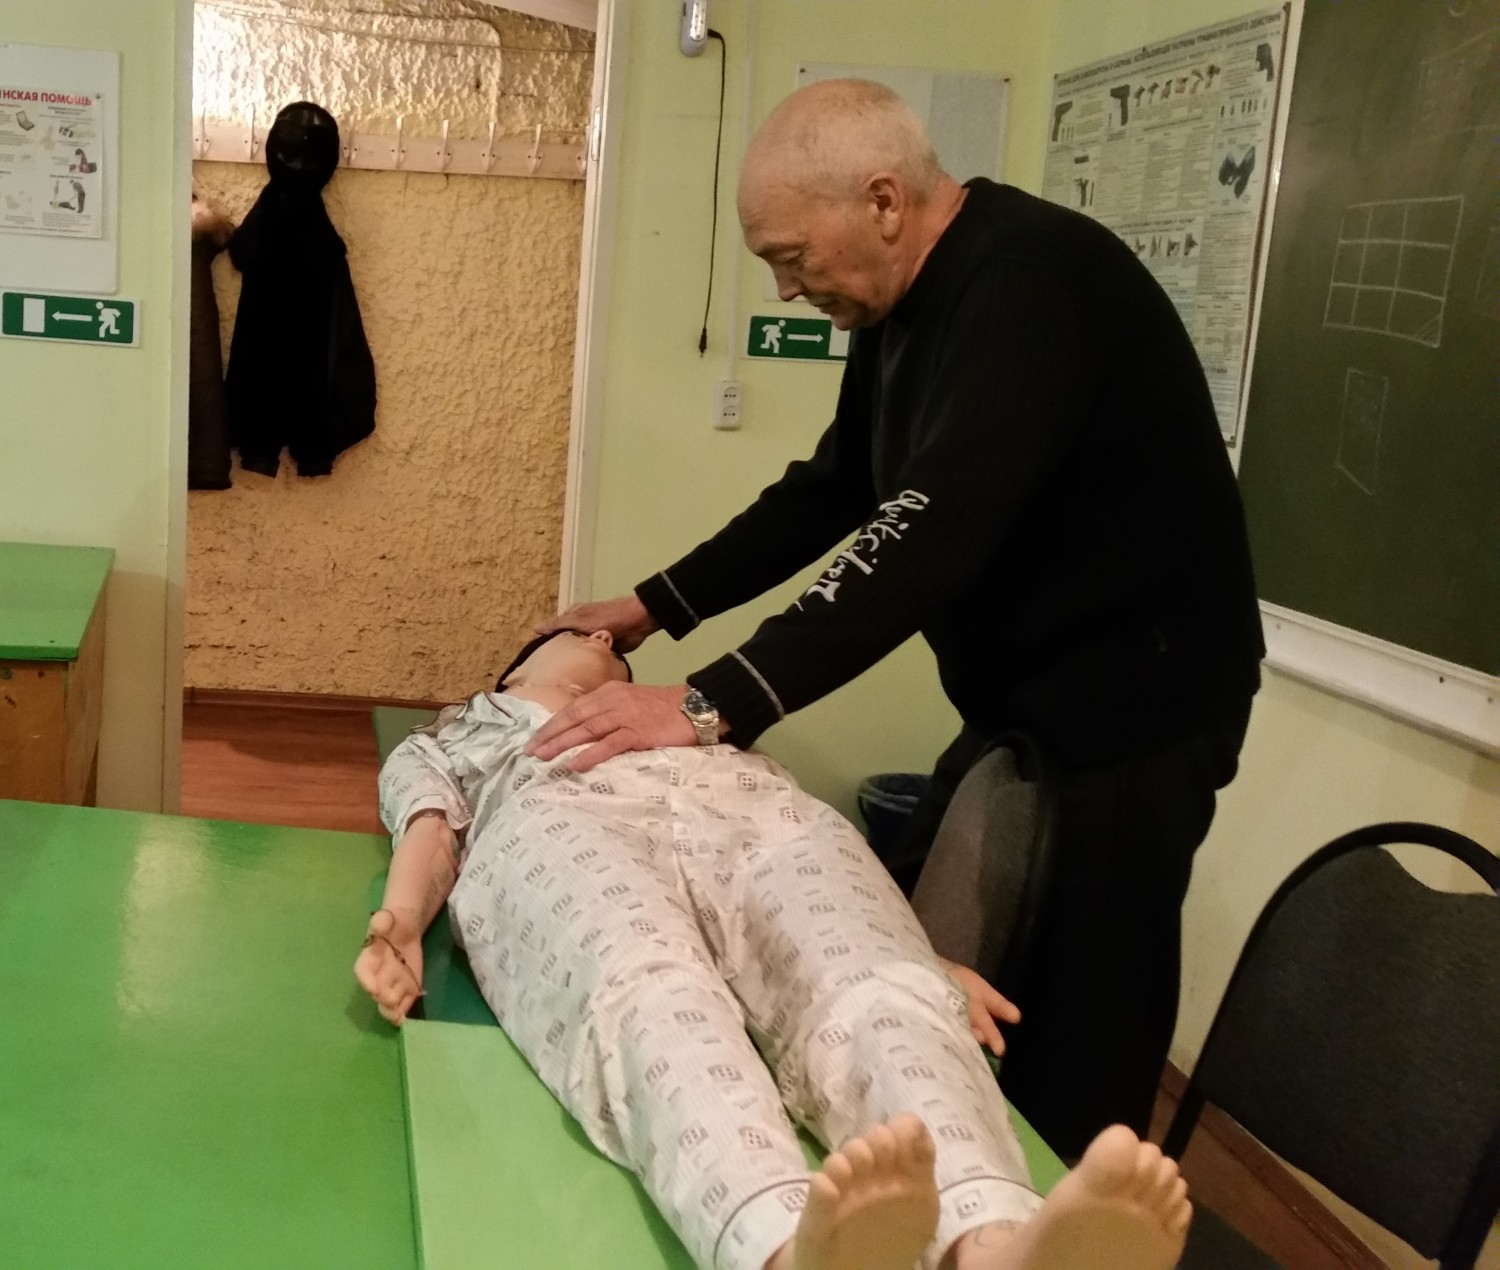
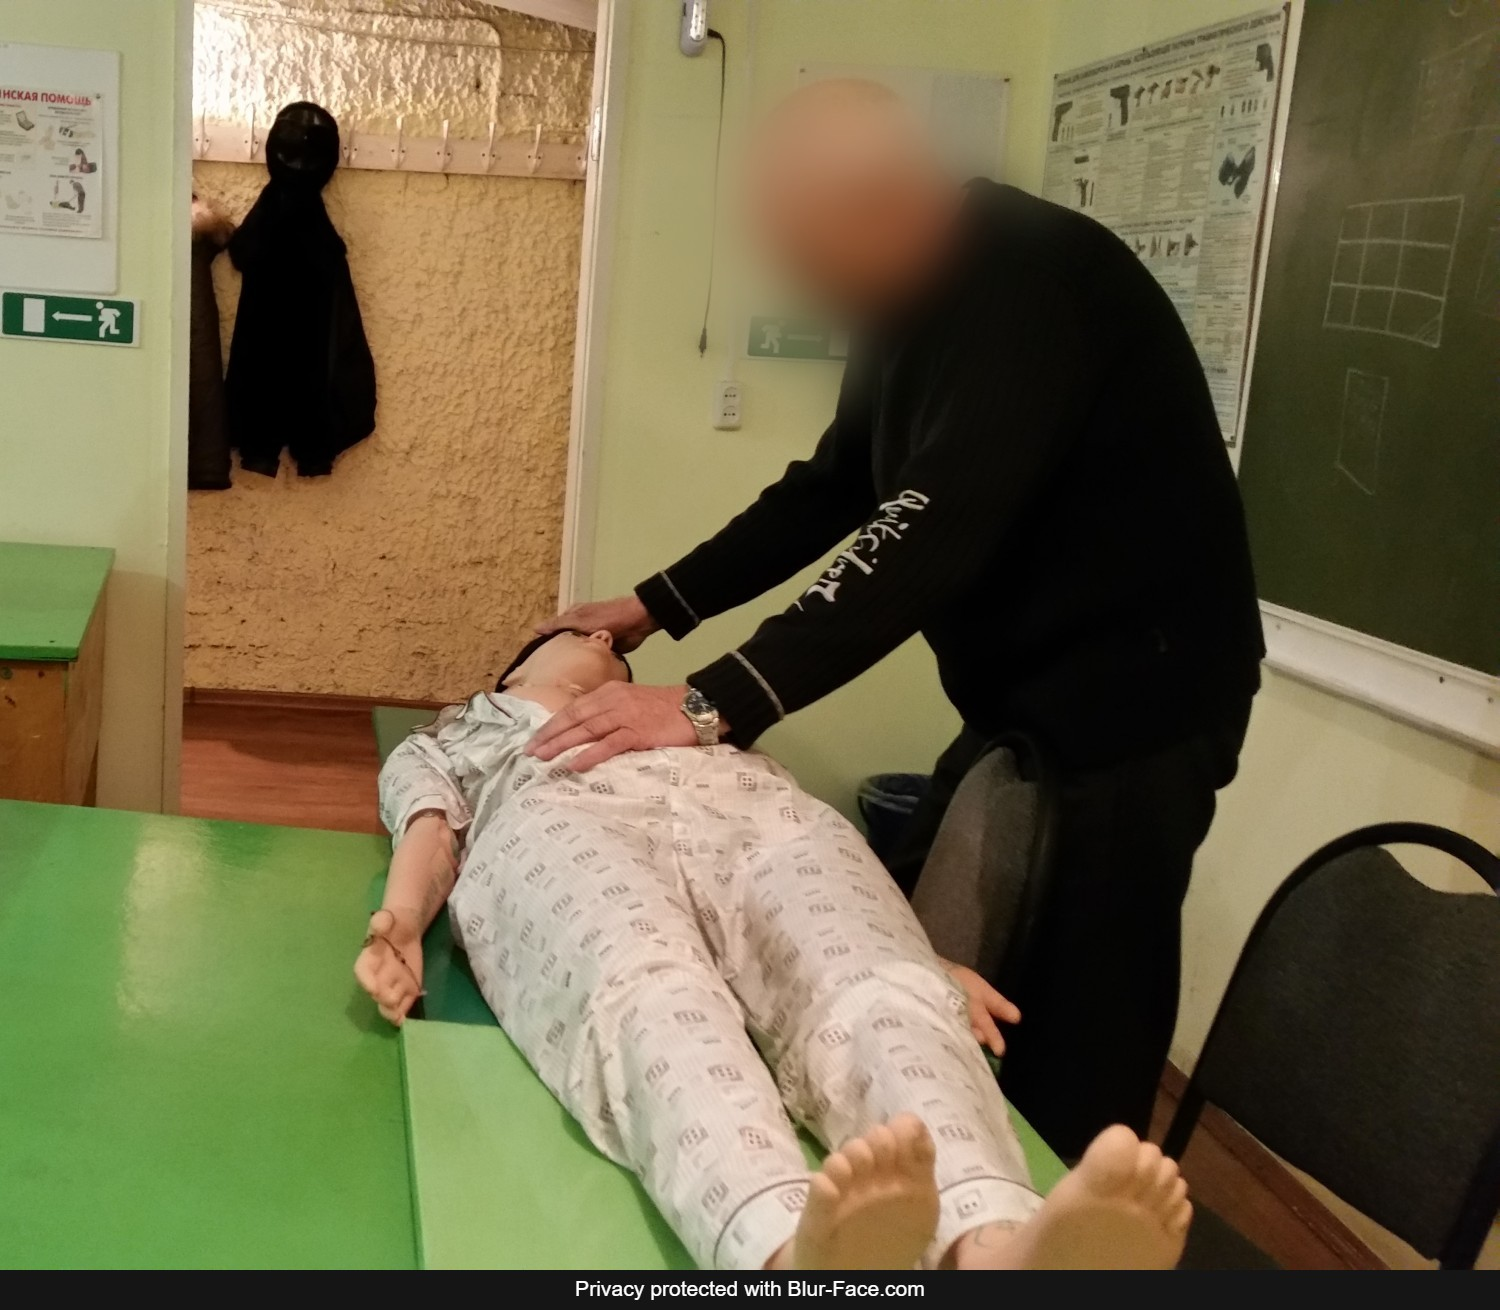
main

diff --git a/index.html b/index.html
@@ -1414,7 +1414,7 @@
 
         <section class="hero" id="hero">
             <div class="hero-bg" id="heroBg">
-                <img src="" alt="Обучение на охранника в Сыктывкаре" id="heroImg">
+                <img src="/assets/mainPage.jpg" alt="Обучение на охранника в Сыктывкаре" id="heroImg">
             </div>
 
             <div class="hero-hud">
@@ -1548,7 +1548,14 @@
                     <div class="reveal">
                         <div class="map-wrap">
                             <span class="map-tag">КАРЛА МАРКСА, 228/3</span>
-                            <iframe src="https://yandex.com/map-widget/v1/?ll=50.822636%2C61.659996&z=17" width="100%" height="450" frameborder="0" loading="lazy" title="Карта — Институт международных связей и делового сотрудничества, Сыктывкар"></iframe>
+                            <iframe
+                                    src="https://yandex.com/map-widget/v1/?text=%D0%A1%D1%8B%D0%BA%D1%82%D1%8B%D0%B2%D0%BA%D0%B0%D1%80%2C%20%D0%9A%D0%B0%D1%80%D0%BB%D0%B0%20%D0%9C%D0%B0%D1%80%D0%BA%D1%81%D0%B0%20228%D0%90&z=17"
+                                    width="100%"
+                                    height="450"
+                                    frameborder="0"
+                                    loading="lazy"
+                                    title="Институт международных связей и делового сотрудничества, Карла Маркса 228А">
+                            </iframe>
                         </div>
                     </div>
                 </div>
@@ -2126,7 +2133,7 @@
       </div>
       <div class="doc-meta">
         ${formatDate(m.create_at)}<br>
-        ${m.id ? `<a href="/api/v1/materials/${m.id}/pdf" class="btn--line" target="_blank" rel="noopener">Скачать</a>` : '—'}
+        ${m.id ? `<a href="${API_BASE}/materials/${m.id}/pdf" class="btn--line" target="_blank" rel="noopener">Скачать</a>` : '—'}
       </div>
     </div>`).join('');
             staggerChildren(materialsGrid);
